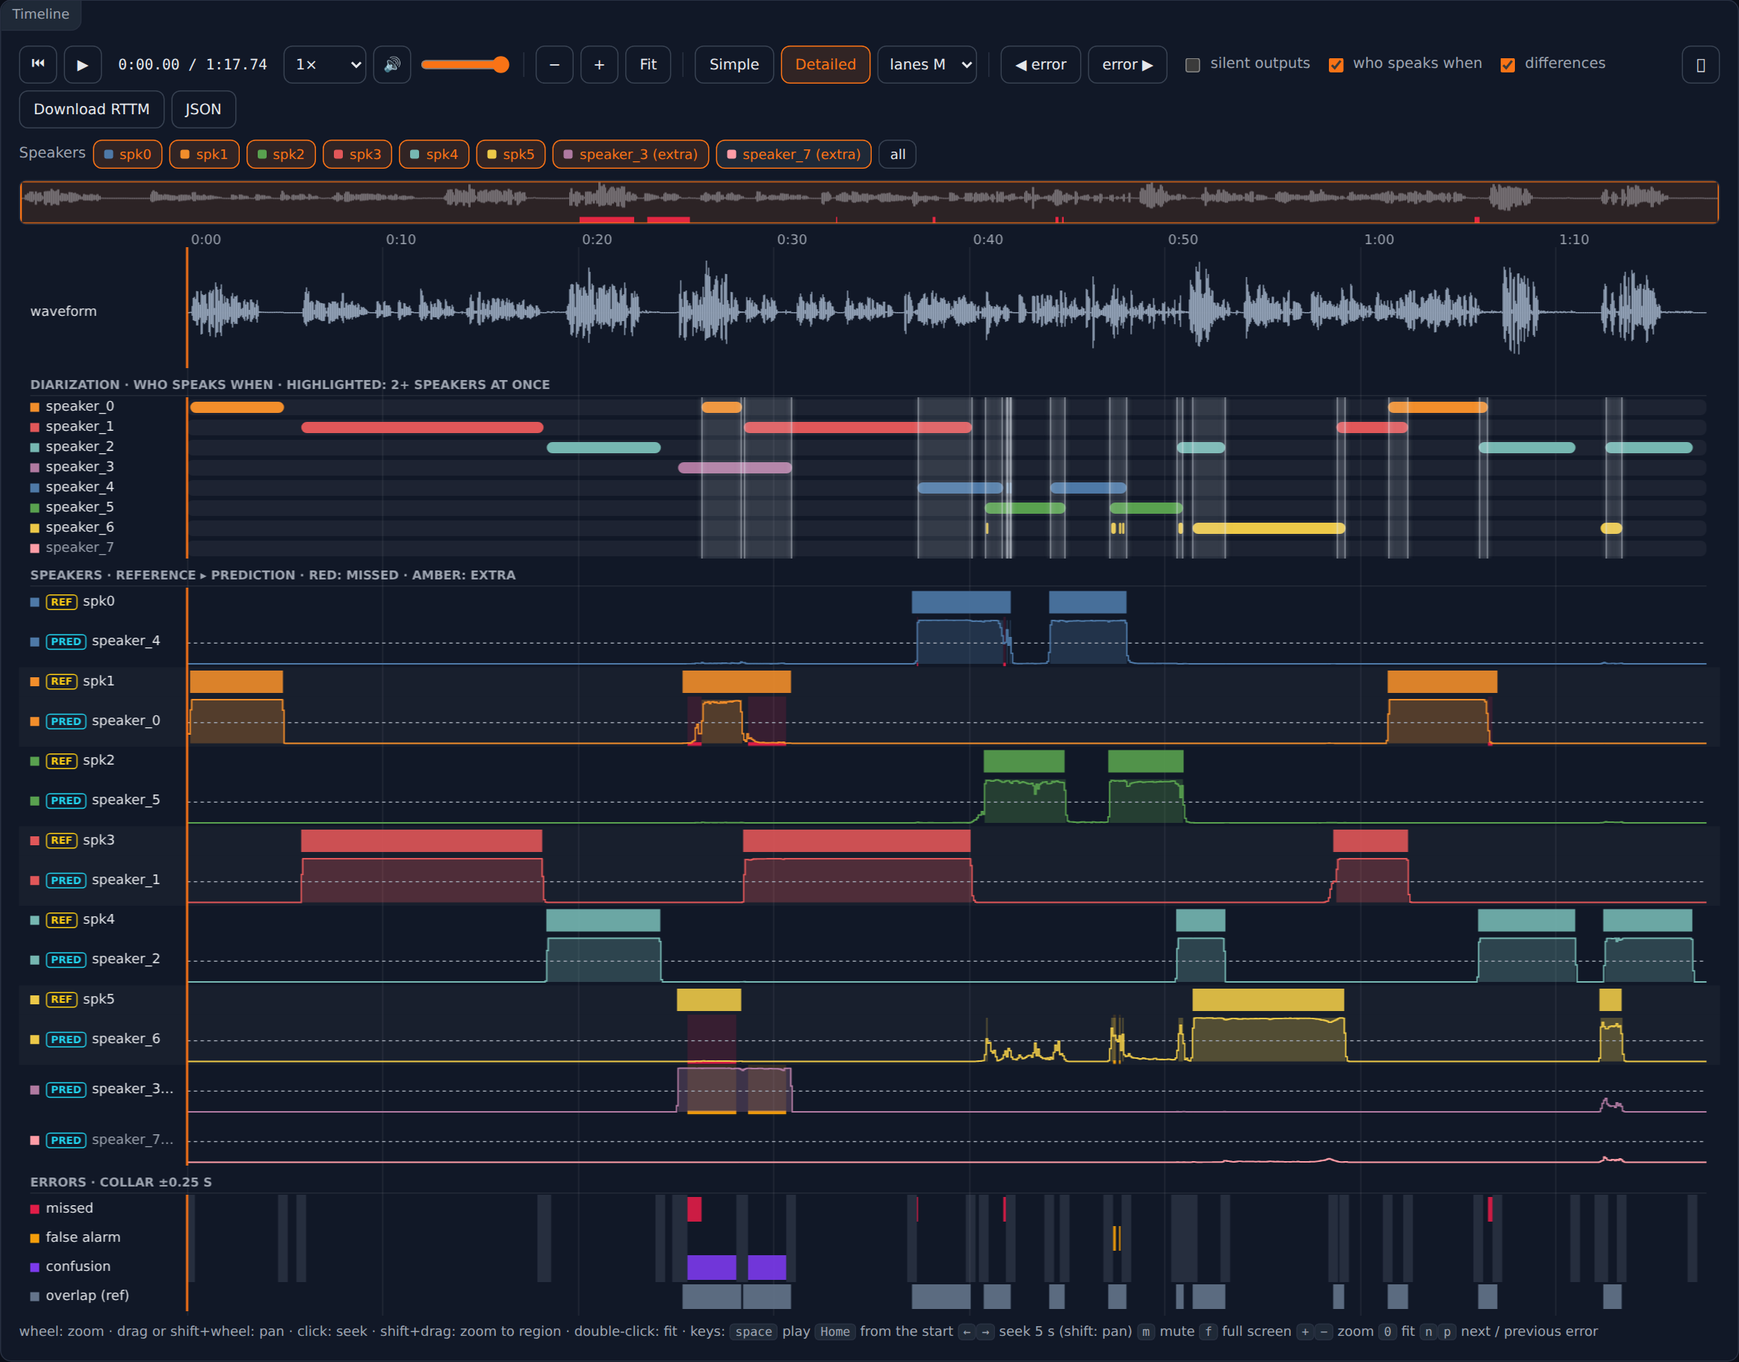
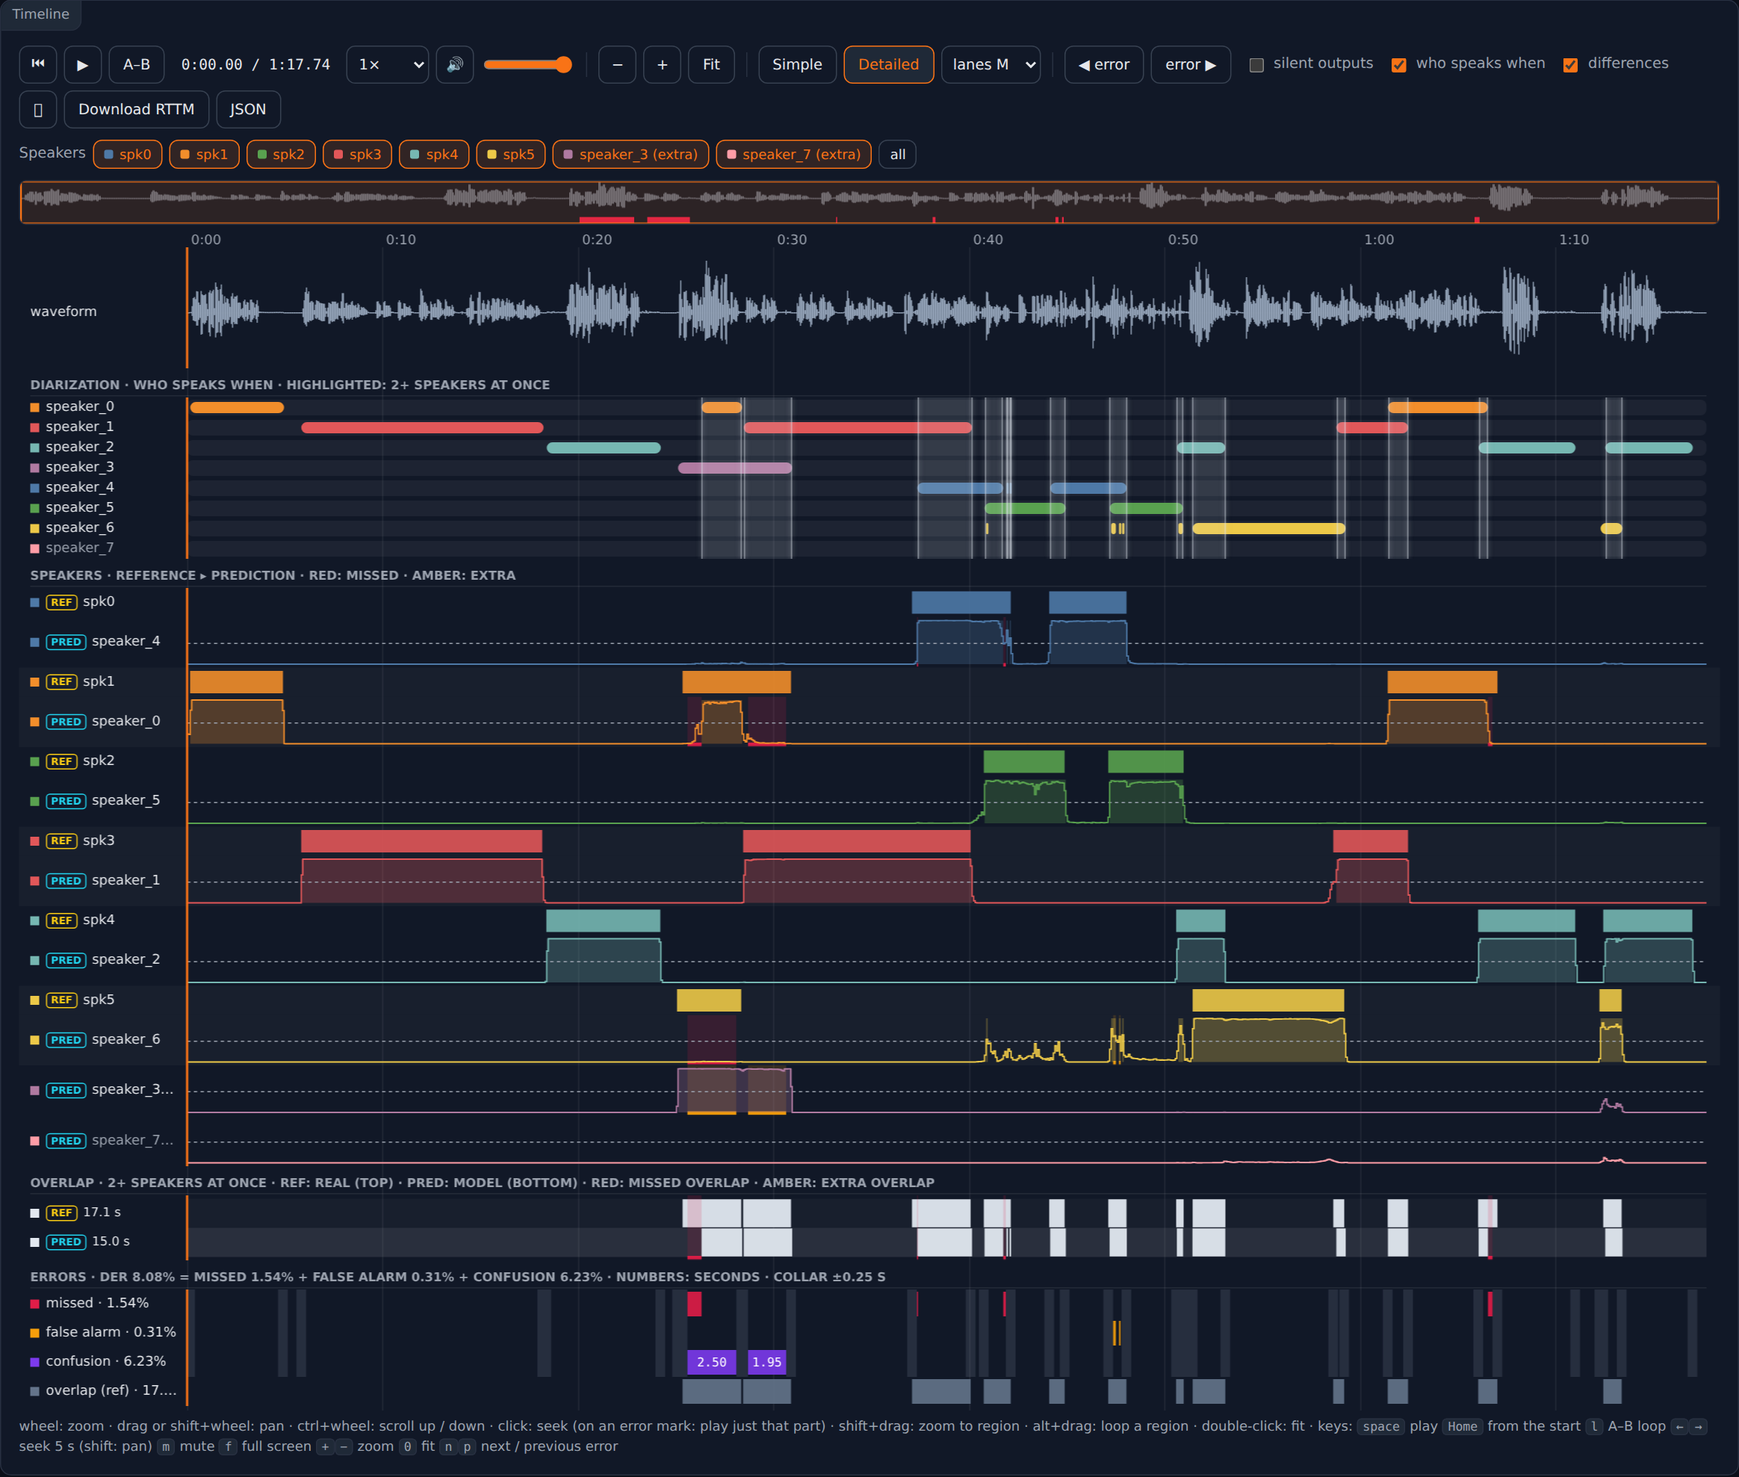
feat: enhance speaker count display and error marking in timeline

diff --git a/frontend/app.js b/frontend/app.js
@@ -7,6 +7,14 @@ const secs = (x) => `${x.toFixed(2)} s`;
 const basename = (p) => p.split(/[\\/]/).pop();
 const dot = (color) => `<span class="dot" style="background:${color}"></span>`;
 const isFolder = (path) => Boolean(path) && !/\.(wav|flac|mp3|ogg|opus|m4a|webm)$/i.test(path);
+// Reference → predicted speaker count; the prediction is green when right, red (▼) with too few, amber (▲) with too many.
+const speakerCount = (ref, hyp, digits = 0) => {
+  const d = hyp - ref, same = Math.abs(d) < (digits ? 0.05 : 0.5);
+  const [cls, mark, tip] = same ? ['spk-ok', '', 'right number of speakers']
+    : d < 0 ? ['spk-few', ` ▼${Math.abs(d).toFixed(digits)}`, 'too few speakers predicted (missed)']
+      : ['spk-many', ` ▲${d.toFixed(digits)}`, 'too many speakers predicted (extra)'];
+  return `<span title="${tip}">${ref.toFixed(digits)} → <span class="${cls}">${hyp.toFixed(digits)}${mark}</span></span>`;
+};
 const card = (label, value, sub = '', cls = '') => `<div class="metric ${cls}"><div class="m-label">${label}</div>
   <div class="m-value">${value}</div><div class="m-sub" title="${sub}">${sub}</div></div>`;
 
@@ -346,7 +354,7 @@ function renderFolder() {
       return `<tr data-f="${i}"${cls}>${first}${'<td class="num">–</td>'.repeat(head.length - lead - 1)}<td class="num">${wait}</td></tr>`;
     }
     const spk = res.ref
-      ? `<span class="${res.ref.speakers !== res.hyp.speakers ? 'warn' : ''}">${res.ref.speakers} → ${res.hyp.speakers}</span>`
+      ? speakerCount(res.ref.speakers, res.hyp.speakers)
       : res.hyp.speakers;
     const nums = hasRef
       ? (s ? [pct(s.der), pct(s.miss), pct(s.fa), pct(s.conf), pct(s.jer)] : ['–', '–', '–', '–', '–'])
@@ -485,7 +493,7 @@ function renderSets() {
     <td class="num">${p1(s.der)}</td><td class="num">${p1(s.speech ? s.miss / s.speech : null)}</td>
     <td class="num">${p1(s.speech ? s.fa / s.speech : null)}</td><td class="num">${p1(s.speech ? s.conf / s.speech : null)}</td>
     <td class="num">${p1(s.jer)}</td><td>${s.der == null ? '–' : main(s)}</td>
-    <td class="num">${s.refSpk == null ? '–' : `${s.refSpk.toFixed(1)} → ${s.hypSpk.toFixed(1)}`}</td>
+    <td class="num">${s.refSpk == null ? '–' : speakerCount(s.refSpk, s.hypSpk, 1)}</td>
     <td class="num">${share(s.exact, s.counted)}</td><td class="num">${share(s.under, s.counted)}</td><td class="num">${share(s.over, s.counted)}</td>
     <td class="num">${p1(s.overlap)}</td></tr>`;
   $('#set-table').innerHTML = `<table class="table">
@@ -641,7 +649,7 @@ function renderMetrics() {
     cards.push(card('Confusion', pct(s.conf), secs(s.conf_s), 'conf'));
     cards.push(card('JER', pct(s.jer), `mean over ${s.jer_speakers} reference speakers`));
     const nr = res.ref.speakers, nh = res.hyp.speakers;
-    cards.push(card('Speakers', `${nr} → ${nh}`, 'reference → predicted', nr !== nh ? 'warn' : ''));
+    cards.push(card('Speakers', speakerCount(nr, nh), 'reference → predicted'));
     const [ro, ho] = [overlap(res.ref), overlap(res.hyp)].map((x) => (x == null ? '–' : (x * 100).toFixed(1)));
     cards.push(card('Overlap', `${ro} → ${ho}%`, 'share of speech, ref → pred'));
   } else {
@@ -716,12 +724,14 @@ function renderTimeline(keepView) {
       chips.push({ key: hypKey(h), label: `${name} (extra)`, color: v.hypColor[h] });
       if (shown(hypKey(h))) rows.push({ ...hypRow(h, `${name} (extra)`, false), tag: 'pred', diff: diff([], v.hypSegs[h]) });
     });
+    rows.push(...overlapRows(diff));
     const scoring = `collar ±${res.score.collar} s${res.score.ignore_overlap ? ' · overlap not scored' : ''}`;
-    rows.push({ kind: 'header', label: `Errors · ${scoring}` });
-    rows.push({ kind: 'err', label: 'missed', colorVar: '--miss', segs: lanes.miss, unscored: lanes.unscored });
-    rows.push({ kind: 'err', label: 'false alarm', colorVar: '--fa', segs: lanes.fa, unscored: lanes.unscored });
-    rows.push({ kind: 'err', label: 'confusion', colorVar: '--conf', segs: lanes.conf, unscored: lanes.unscored });
-    rows.push({ kind: 'err', label: 'overlap (ref)', colorVar: '--overlap', segs: lanes.overlap });
+    const sc = res.score, sum = (segs) => segs.reduce((acc, [s, e]) => acc + e - s, 0);
+    rows.push({ kind: 'header', label: `Errors · ${derParts(sc)} · ${scoring}` });
+    rows.push({ kind: 'err', label: `missed · ${pct(sc.miss)}`, colorVar: '--miss', segs: lanes.miss, unscored: lanes.unscored, numbers: true });
+    rows.push({ kind: 'err', label: `false alarm · ${pct(sc.fa)}`, colorVar: '--fa', segs: lanes.fa, unscored: lanes.unscored, numbers: true });
+    rows.push({ kind: 'err', label: `confusion · ${pct(sc.conf)}`, colorVar: '--conf', segs: lanes.conf, unscored: lanes.unscored, numbers: true });
+    rows.push({ kind: 'err', label: `ref overlap · ${sum(lanes.overlap).toFixed(1)} s`, colorVar: '--overlap', segs: lanes.overlap });
   } else if (res.probs) {  // without probabilities this would repeat the diarization lanes
     rows.push({ kind: 'header', label: 'Speaker probability · dashed: onset / offset' });
     res.hyp.names.forEach((name, h) => {
@@ -757,7 +767,7 @@ function simpleRows(shown, hypKey) {
     const tracks = [];
     res.hyp.names.forEach((_, h) => { if (visible(h)) tracks.push({ color: v.hypColor[h], segs: v.hypSegs[h] }); });
     return [{ kind: 'header', label: 'Prediction · one track per speaker' },
-            { kind: 'stack', label: 'prediction', tracks, h: Math.max(26, tracks.length * 8 + 6) }];
+            { kind: 'stack', label: 'prediction', tracks, h: Math.max(26, tracks.length * 8 + 6) }, ...overlapRows(null)];
   }
   const map = res.score.hyp_to_ref, lanes = res.score.lanes;
   const unscored = mergeSegs(lanes.unscored);
@@ -780,14 +790,38 @@ function simpleRows(shown, hypKey) {
   res.hyp.names.forEach((name, h) => {  // predicted speakers with no reference speaker
     if (map[h] == null && visible(h)) rows.push(pair('— no reference', `${name} (extra)`, v.hypColor[h], [], v.hypSegs[h], false));
   });
+  rows.push(...overlapRows(diff));
   const scoring = `collar ±${res.score.collar} s${res.score.ignore_overlap ? ' · overlap not scored' : ''}`;
   rows.push(
-    { kind: 'header', label: `Errors · red: missed · amber: false alarm · purple: confusion · ${scoring}` },
+    { kind: 'header', label: `Errors · ${derParts(res.score)} · ${scoring}` },
     { kind: 'stack', label: 'errors', h: 48, unscored: lanes.unscored,
-      tracks: [{ colorVar: '--miss', segs: lanes.miss, label: 'missed' }, { colorVar: '--fa', segs: lanes.fa, label: 'false alarm' },
-               { colorVar: '--conf', segs: lanes.conf, label: 'confusion' }] },
+      tracks: [{ colorVar: '--miss', segs: lanes.miss, label: `missed · ${pct(res.score.miss)}`, numbers: true },
+               { colorVar: '--fa', segs: lanes.fa, label: `false alarm · ${pct(res.score.fa)}`, numbers: true },
+               { colorVar: '--conf', segs: lanes.conf, label: `confusion · ${pct(res.score.conf)}`, numbers: true }] },
   );
   return rows;
+}
+
+// "DER 16.63% = (missed 0.00 s + false alarm 1.05 s + confusion 1.44 s) ÷ 15.0 s scored speech": the marks show seconds,
+// the DER divides their sum by the scored reference speech (silence and the collar around every boundary do not count).
+function derParts(s) {
+  return `DER ${pct(s.der)} = (missed ${s.miss_s.toFixed(2)} s + false alarm ${s.fa_s.toFixed(2)} s + confusion ${
+    s.conf_s.toFixed(2)} s) ÷ ${s.ref_speech.toFixed(1)} s scored speech`;
+}
+
+// Overlap: where 2+ speakers talk at once in the reference (top) and in the prediction (bottom), with the overlap the
+// prediction misses (red) or adds (amber) when `diff` (refSegs, hypSegs) => { miss, extra } is given. All speakers
+// count, hidden ones too. Clicking a part plays it (see Timeline._errorSegAt).
+function overlapRows(diff) {
+  const res = result, v = view;
+  const ref = res.ref ? overlapRegions(v.refSegs) : null;
+  const secs = (segs) => `${segs.reduce((acc, [s, e]) => acc + e - s, 0).toFixed(1)} s`;
+  const tracks = [{ colorVar: '--highlight', segs: v.hypOverlap, label: secs(v.hypOverlap), tag: 'pred', bgVar: '--track-pred' }];
+  if (ref) tracks.unshift({ colorVar: '--highlight', segs: ref, label: secs(ref), tag: 'ref', bgVar: '--track-ref' });
+  return [
+    { kind: 'header', label: `Overlap · 2+ speakers at once${ref ? ` · REF: real (top) · PRED: model (bottom)${diff && $('#show-diff').checked ? ' · red: missed overlap · amber: extra overlap' : ''}` : ' · prediction'}` },
+    { kind: 'stack', label: 'overlap', h: ref ? 36 : 20, tracks, diff: ref && diff ? diff(ref, v.hypOverlap) : null },
+  ];
 }
 
 // One toggle per speaker above the timeline; a hidden speaker's lanes are left out of every section.
@@ -931,7 +965,8 @@ function describeTime(t) {
   const pred = res.hyp.names.map((name, h) => {
     const p = frame >= 0 ? v.probs[h][frame] : null;
     if (!on(v.hypSegs[h]) && !(p >= 0.05)) return '';
-    return `${dot(v.hypColor[h])}${esc(name)}${p != null ? ` <span class="muted">${p.toFixed(2)}</span>` : ''}`;
+    // the model's probability that this speaker talks here, in percent
+    return `${dot(v.hypColor[h])}${esc(name)}${p != null ? ` <span class="muted" title="model probability">${Math.round(p * 100)}%</span>` : ''}`;
   }).filter(Boolean);
   lines.push(`<div><span class="k">pred</span>${pred.join(' ') || '<i>silence</i>'}</div>`);
   if (res.score) {

diff --git a/frontend/timeline.js b/frontend/timeline.js
@@ -192,7 +192,7 @@ export class Timeline {
     const v = (name) => css.getPropertyValue(name).trim();
     return {
       v, text: v('--text'), muted: v('--muted'), grid: v('--grid'), wave: v('--wave'), accent: v('--accent'),
-      stripe: v('--stripe'), unscored: v('--unscored'), miss: v('--miss'), font: v('--font'),
+      stripe: v('--stripe'), unscored: v('--unscored'), miss: v('--miss'), font: v('--font'), mono: v('--mono'),
       lane: v('--lane'), highlight: v('--highlight'),
     };
   }
@@ -237,6 +237,7 @@ export class Timeline {
       else if (row.kind === 'err') {
         if (row.unscored) this._drawSegs(ctx, row.unscored, row.y, row.h, th.unscored, 1);
         this._drawSegs(ctx, row.segs, row.y + 2, row.h - 4, th.v(row.colorVar), 0.9);
+        if (row.numbers) this._drawDurations(ctx, row.segs, row.y + 2, row.h - 4, row.colorVar, th);
       }
       ctx.restore();
     }
@@ -295,6 +296,22 @@ export class Timeline {
       ctx.fillText(ellipsize(ctx, track.label || '', GUTTER - x - 8), x, mid);
     });
     ctx.font = `12px ${th.font}`;
+  }
+
+  // The length in seconds inside every mark wide enough to hold it ("0.42 s"); dark text on the light amber.
+  _drawDurations(ctx, segs, y, h, colorVar, th) {
+    if (h < 10) return;
+    const [a, b] = this.view;
+    ctx.save();
+    ctx.font = `${Math.min(11, Math.floor(h - 2))}px ${th.mono}`;
+    ctx.fillStyle = colorVar === '--fa' ? '#1f2937' : '#fff';
+    ctx.textAlign = 'center';
+    for (const [s, e] of segs) {
+      if (e < a || s > b) continue;
+      const x0 = this.timeToX(Math.max(s, a)), x1 = this.timeToX(Math.min(e, b)), text = `${(e - s).toFixed(2)} s`;
+      if (x1 - x0 >= ctx.measureText(text).width + 6) ctx.fillText(text, (x0 + x1) / 2, y + h / 2 + 0.5);
+    }
+    ctx.restore();
   }
 
   _drawSegs(ctx, segs, y, h, color, alpha) {
@@ -357,6 +374,7 @@ export class Timeline {
     if (row.unscored) this._drawSegs(ctx, row.unscored, top, h, th.unscored, 1);
     row.tracks.forEach((track, i) => {
       this._drawSegs(ctx, track.segs, top + i * th1 + 0.5, Math.max(1, th1 - 1), track.color || th.v(track.colorVar), 0.95);
+      if (track.numbers) this._drawDurations(ctx, track.segs, top + i * th1 + 0.5, th1 - 1, track.colorVar, th);
     });
     if (row.diff) this._drawDiff(ctx, row, th);  // on top, so the strip along the bottom stays visible
   }
@@ -559,6 +577,7 @@ export class Timeline {
         }
       }
       this.hoverX = e.offsetX >= GUTTER ? e.offsetX : null;
+      if (!d) c.style.cursor = this._errorSegAt(e.offsetX, e.offsetY) ? 'pointer' : '';
       this.redraw = true;
       this._showTooltip(e);
     });
@@ -576,7 +595,9 @@ export class Timeline {
           this.player.play();
         } else if (t - s > 0.01) this.setView(s, t);
       } else if (!d.moved && e.offsetX >= GUTTER) {
-        this.seek(this.xToTime(e.offsetX));
+        const seg = this._errorSegAt(e.offsetX, e.offsetY);  // a click on an error mark plays just that part
+        if (seg) this.playRange(seg[0], seg[1]);
+        else this.seek(this.xToTime(e.offsetX));
       }
       this.redraw = true;
     });
@@ -607,6 +628,21 @@ export class Timeline {
       if (this.loop?.length === 2) { this.player.currentTime = this.loop[0]; this.player.play(); }
     });
     this.player.addEventListener('play', () => { this.follow = true; });
+  }
+
+  // The error mark (missed / false alarm / confusion / overlap lane) under a point, as [start, end], or null.
+  _errorSegAt(x, y) {
+    if (x < GUTTER || !this.duration) return null;
+    const row = this.rows.find((r) => y >= r.y && y < r.y + r.h);
+    let segs = null;
+    if (row?.kind === 'err') segs = row.segs;
+    else if (row?.kind === 'stack' && row.tracks.length && row.tracks.every((t) => t.colorVar)) {  // simple view: one lane
+      const top = row.y + 3, h = (row.h - 6) / row.tracks.length;
+      segs = row.tracks[Math.min(row.tracks.length - 1, Math.max(0, Math.floor((y - top) / h)))].segs;
+    }
+    if (!segs) return null;
+    const t = this.xToTime(x), slack = (3 * (this.view[1] - this.view[0])) / this.plotWidth;  // 3 px, for thin marks
+    return segs.find(([s, e]) => t >= s - slack && t <= e + slack) || null;
   }
 
   _showTooltip(e) {

diff --git a/frontend/index.html b/frontend/index.html
@@ -186,7 +186,7 @@
           <div id="tooltip" hidden></div>
         </div>
         <p class="hint">
-          wheel: zoom · drag or shift+wheel: pan · ctrl+wheel: scroll up / down · click: seek · shift+drag: zoom to region · alt+drag: loop a region · double-click: fit ·
+          wheel: zoom · drag or shift+wheel: pan · ctrl+wheel: scroll up / down · click: seek (on an error mark: play just that part) · shift+drag: zoom to region · alt+drag: loop a region · double-click: fit ·
           keys: <kbd>space</kbd> play <kbd>Home</kbd> from the start <kbd>l</kbd> A–B loop <kbd>←</kbd><kbd>→</kbd> seek 5 s (shift: pan) <kbd>m</kbd> mute <kbd>f</kbd> full screen <kbd>+</kbd><kbd>−</kbd> zoom <kbd>0</kbd> fit
           <kbd>n</kbd><kbd>p</kbd> next / previous error
         </p>

diff --git a/frontend/style.css b/frontend/style.css
@@ -166,6 +166,9 @@ td.nowrap .btn + .btn { margin-left: 4px; }
 .set-tip { position: fixed; z-index: 20; pointer-events: none; padding: 6px 9px; border: 1px solid var(--border);
   border-radius: 6px; background: var(--panel); font-size: 12px; box-shadow: 0 4px 14px rgba(0, 0, 0, 0.25); }
 .set-tip b { font-weight: 600; }
+.spk-ok { color: var(--ok); }
+.spk-few { color: var(--miss); }
+.spk-many { color: var(--fa); }
 .folder-pos { font-variant-numeric: tabular-nums; white-space: nowrap; }
 select.small { height: 26px; max-width: 220px; font-size: 12px; }
 .hint { margin: 6px 0 0; font-size: 12px; color: var(--muted); }

diff --git a/README.md b/README.md
@@ -100,7 +100,7 @@ Choose **Folder**, put a folder in **Audio folder** (and optionally in **Referen
   - A bar per set split into missed / false alarm / confusion, and one for **all sets** (the whole folder) below them. **% of speech**: the parts add up to the set's DER.
     **share of error**: each part as a share of that set's error, so the dominant one stands out. Hover a part for its numbers.
   - A table per set (and all sets): DER, missed, false alarm, confusion, JER, the **main error**, mean speakers reference →
-    predicted, how often the speaker count is right / too few / too many, and the share of overlapped reference speech.
+    predicted (green: right, red ▼: too few, amber ▲: too many; the same colors in the file table and the Speakers card), how often the speaker count is right / too few / too many, and the share of overlapped reference speech.
   - Click a set (bar or row) to show only that set; click it again for all sets. Numbers cover the files run so far:
     **Run all sets** runs the rest of every set.
   An RTTM folder is searched the same way, by file name.
@@ -131,6 +131,14 @@ What you get:
     - each reference speaker, with the predicted speaker it was mapped to drawn below in the same color; with **differences** on, that lane is marked red where the reference speaker talks but the prediction misses it and amber where the prediction adds speech the reference does not have (collar excluded);
     - the model's speaker probability, with the onset/offset thresholds as dashed lines;
     - error lanes: missed / false alarm / confusion / reference overlap (gray = inside the collar, not scored);
+  - both: the error lanes say what each error type adds to the DER (`missed · 0.6%`, in % of scored speech, so the three
+    add up to the DER), and every mark wide enough shows its length in seconds (`1.05 s`). The section header shows the
+    sum: `DER 16.63% = (missed 0.00 s + false alarm 1.05 s + confusion 1.44 s) ÷ 15.0 s scored speech`. Scored speech is
+    the reference speech minus the collar around every boundary, so on a short file with many turns and a wide collar a
+    few seconds of error can be a large DER;
+  - both: an **Overlap** lane, where 2+ speakers talk at once: the real overlap (REF, from the reference) on top and the
+    model's (PRED) below, each with its total seconds; with **differences** on, red where the model misses real overlap and
+    amber where it predicts overlap that is not there. Click a part to play it;
   - both: **lanes S / M / L / XL** sets the height of the speaker and error lanes, an overview strip with every error position, and **Speakers** chips above the timeline: click to hide / show a speaker, double-click to show only that one, **all** to show everyone.
 
   ![Timeline, detailed view: who speaks when, each reference speaker with the model's probability for its matched speaker, and one lane per error type](docs/images/timeline-detailed.png)
@@ -150,7 +158,7 @@ What you get:
 repeats A → B until you press it a third time. **Alt+drag** on the timeline loops the dragged region, and ↻ on an error row
 loops that error (0.3 s on each side). The loop shows as a shaded band with A / B markers; opening another file clears it.
 
-Mouse: wheel = zoom, drag or shift+wheel = pan, ctrl+wheel = scroll the page up / down (to reach the lanes below when there are many speakers), click = seek, shift+drag = zoom to a region, double-click = fit.
+Mouse: click on an error mark (missed / false alarm / confusion lane) = play just that part, wheel = zoom, drag or shift+wheel = pan, ctrl+wheel = scroll the page up / down (to reach the lanes below when there are many speakers), click = seek, shift+drag = zoom to a region, double-click = fit.
 Keys: `[` `]` previous / next file, `space` play, `Home` play from the start, `l` A–B loop, `←` `→` seek 5 s (`shift` + `←` `→` pan), `m` mute, `f` full screen (metrics, timeline, error list and speakers table; `Esc` leaves), `+` `−` zoom, `0` fit, `n` / `p` next / previous error.
 
 ## Scoring
